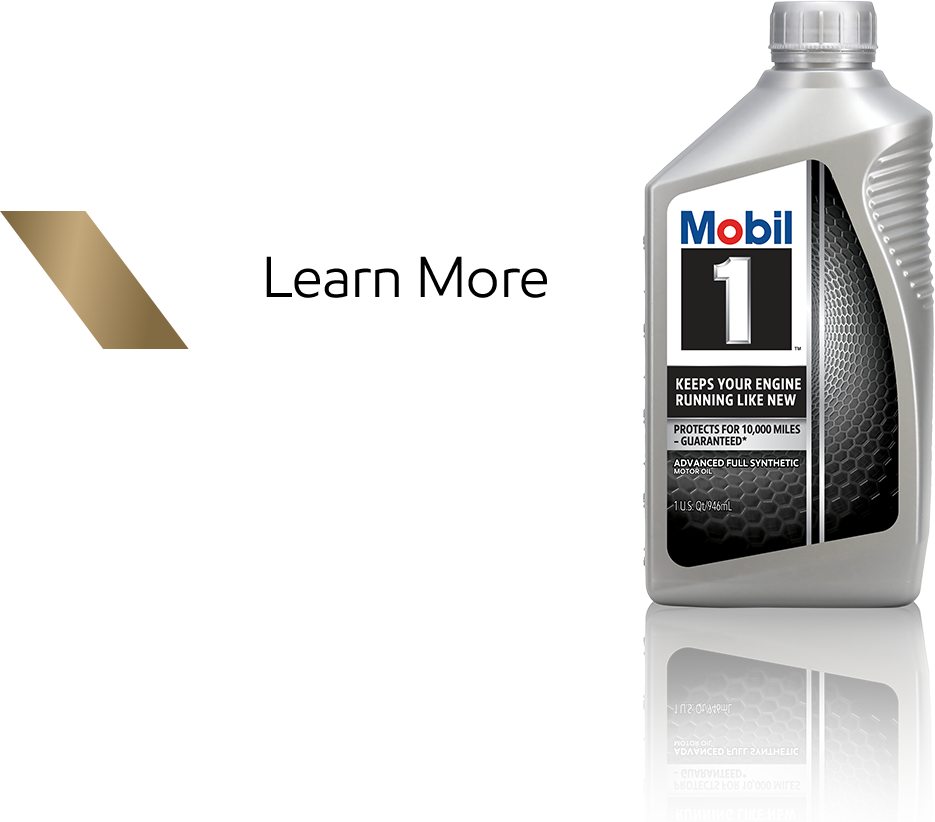
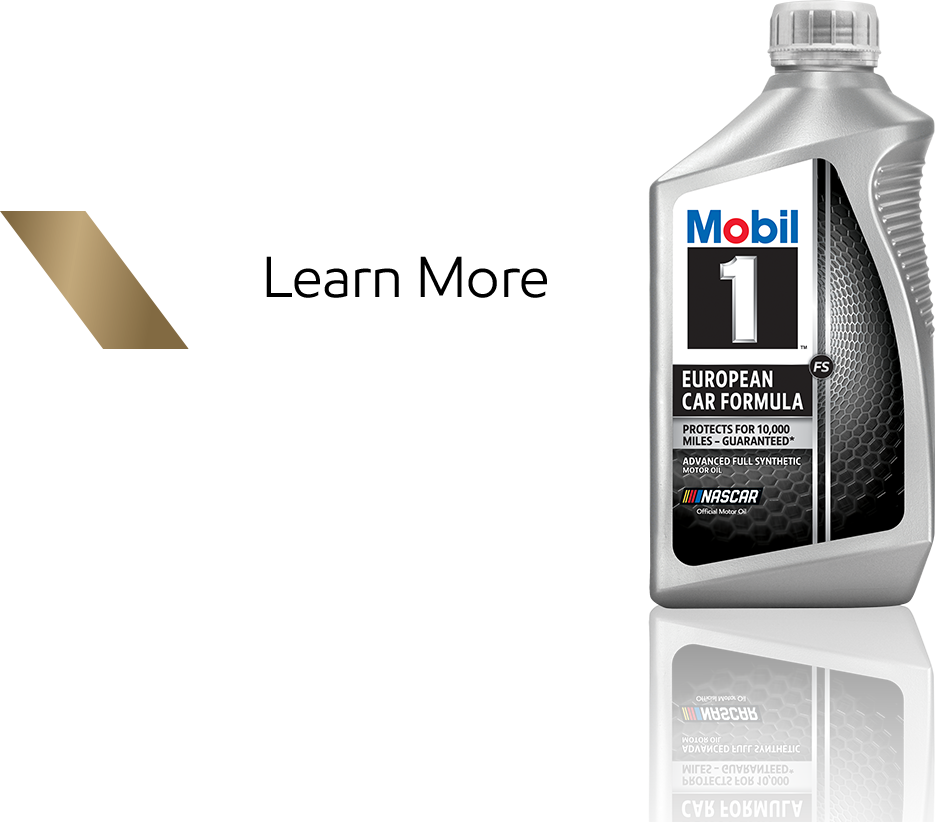
Finished changelog, waiting on last creative for final change

Changed region(s): [[0.6824, 0.0, 1.0, 1.0], [0.9305, 0.7908, 1.0, 0.9732]]

diff --git a/pages/steer.js b/pages/steer.js
@@ -10,14 +10,16 @@ export default function Steer() {
     headerMt: '-80px',
     paragraph: (
       <>
-        Steer is revolutionizing the automotive service industry by providing<br />
-        innovative solutions for repair shops. The Mobil 1™ brand is committed to<br />
-        enhancing the customer experience and leverages Steer’s platform to enable<br />
-        shops to focus on their trade. Shops and consumers alike benefit from the<br />
-        increased ease of booking and service updates. By aligning your business with the <br />
-        Mobil 1 team and Steer, you can create a seamless experience for existing clients and<br />
-        attract new customers. For more information and a demo, visit the Steer representative <br />
-        located inside the Mobil 1 booth.
+        Steer is an industry-leading shop marketing and communications<br />
+        platform designed to bring customers to shops, and grow shop sales<br />
+        through increased car count and ticket averages. As part of the<br />
+        long-term collaboration with Steer, the Mobil marketing team is working with<br />
+        Steer to deliver new fluid service communications aimed at increasing consumer<br />
+        engagement, knowledge, and usage of Mobil 1™ products.<br />
+        <span style={{ display: 'block', marginBottom: '20px' }}></span>
+        Also, Steer and the industry-leading shop scheduling platform called Auto Ops have just<br />
+        merged, allowing consumers to easily book Mobil 1™ oil changes. Learn more about these<br />
+        platforms at the Steer table inside our booth.
       </>
     ),
     paragraphMt: '90px',
@@ -25,8 +27,8 @@ export default function Steer() {
     products: [
       { image: '/images/steer-product1.png', link: '/products/extendedPerformance/' }
     ],
-    productsMt: '60px',
-    subheaderTop: '180px',
+    productsMt: '-10px',
+    subheaderTop: '120px',
     videoSrc: '/videos/preview.mp4',
     fullScreenVideoSrc: '/videos/testVideo.mp4'
   };

diff --git a/pages/oem/porsche.js b/pages/oem/porsche.js
@@ -24,7 +24,7 @@ export default function Porsche() {
     paragraphMt: '120px',
     paragraphTextSize: '40px',
     products: [
-      { image: '/images/porsche-product1.png', link: '/products/fullSynthetic' },
+      { image: '/images/porsche-product1.png', link: '/products/europeanCarFormula' },
       { image: '/images/porsche-product2.png', link: '/products/esp' }
     ],
     productsMt: '30px',

diff --git a/pages/products/esp.js b/pages/products/esp.js
@@ -49,7 +49,7 @@ export default function ESP() {
         header={productData.header}
         headerTextSize={productData.headerTextSize}
         image={productData.image}
-        imageHeight="1260px"
+        imageHeight="1349px"
         paragraph={productData.paragraph}
         paragraphTextSize={productData.paragraphTextSize}
         viscosity={productData.viscosity}

diff --git a/pages/products/europeanCarFormula.js b/pages/products/europeanCarFormula.js
@@ -23,7 +23,7 @@ export default function EuropeanCarFormula() {
     viscosity: '0W-40  |  5W-30  |  5W-40  |  5W-50',
     viscosityMt: '170px',
     sectionMt: '170px',
-    button1: '/images/redbull-button.png',
+    button1: '/images/porsche-button1.png',
     button1Height: '121px',
     button1Href: '/redbullracing',
     buttonsMt: '330px',
